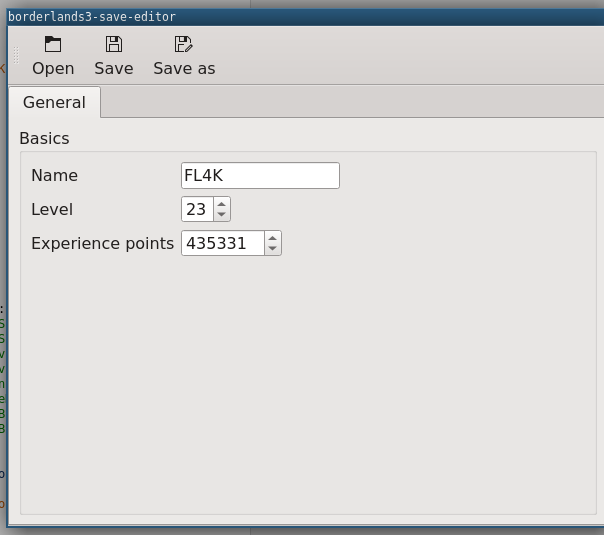
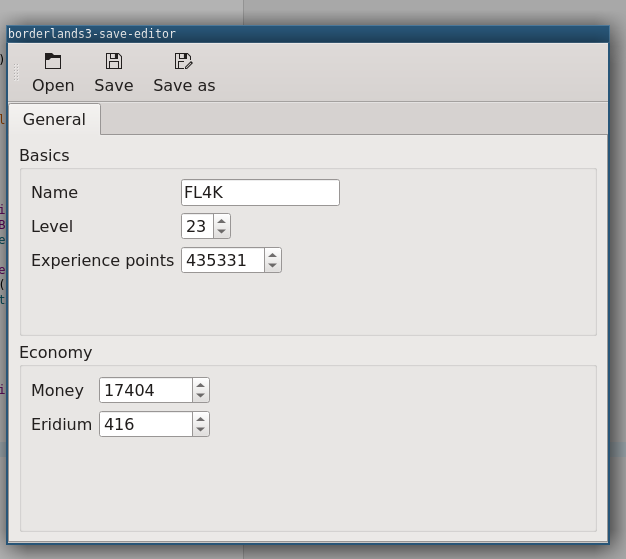
add money box

Changed region(s): [[0.0, 0.0, 1.0, 1.0]]

diff --git a/Savegame.cpp b/Savegame.cpp
@@ -1,7 +1,5 @@
 #include "Savegame.h"
 
-#include "Constants.h"
-
 #include "OakSave.pb.h"
 
 #include <QFile>
@@ -154,6 +152,8 @@ bool Savegame::load(const QString &filePath)
     emit nameChanged(characterName());
     emit xpChanged(xp());
     emit levelChanged(level());
+    emit moneyChanged(money());
+    emit eridiumChanged(eridium());
     return true;
 }
 
@@ -217,4 +217,69 @@ void Savegame::setLevel(const int newLevel)
         m_character->set_experience_points(requiredXp);
         emit xpChanged(requiredXp);
     }
+}
+
+int Savegame::money() const
+{
+    return currencyAmount(Constants::Currency::Money);
+}
+
+void Savegame::setMoney(const int amount)
+{
+    if (amount == money()) {
+        return;
+    }
+
+    setCurrency(Constants::Currency::Money, amount);
+    emit moneyChanged(amount);
+}
+
+int Savegame::eridium() const
+{
+    return currencyAmount(Constants::Currency::Eridium);
+}
+
+void Savegame::setEridium(const int amount)
+{
+    if (amount == eridium()) {
+        return;
+    }
+
+    setCurrency(Constants::Currency::Eridium, amount);
+    emit eridiumChanged(amount);
+}
+
+int Savegame::currencyAmount(const Constants::Currency currency) const
+{
+    for (const OakSave::InventoryCategorySaveData &item : m_character->inventory_category_list()) {
+        if (Constants::currencyByHash(item.base_category_definition_hash()) != currency) {
+            continue;
+        }
+        return item.quantity();
+    }
+    qWarning() << "Failed to find category" << currency;
+
+    return 0;
+
+}
+
+void Savegame::setCurrency(const Constants::Currency currency, const int amount)
+{
+    for (OakSave::InventoryCategorySaveData &item : *m_character->mutable_inventory_category_list()) {
+        if (Constants::currencyByHash(item.base_category_definition_hash()) != currency) {
+            continue;
+        }
+        item.set_quantity(amount);
+    }
+
+    qDebug() << "Failed to find category, adding new";
+    int hash = Constants::hashByCurrency(currency);
+    if (hash == -1) {
+        qWarning() << "Failed to find hash for" << currency;
+        return;
+    }
+    OakSave::InventoryCategorySaveData newItem;
+    newItem.set_base_category_definition_hash(hash);
+    newItem.set_quantity(amount);
+    m_character->mutable_inventory_category_list()->Add(std::move(newItem));
 }

diff --git a/generaltab.cpp b/generaltab.cpp
@@ -14,6 +14,7 @@ GeneralTab::GeneralTab(Savegame *savegame, QWidget *parent) :
 {
     setLayout(new QVBoxLayout);
 
+    //////////////////////////
     // Basic properties
     QGroupBox *basicsBox = new QGroupBox(tr("Basics"));
     QFormLayout *basicsLayout = new QFormLayout;
@@ -39,8 +40,29 @@ GeneralTab::GeneralTab(Savegame *savegame, QWidget *parent) :
     connect(savegame, &Savegame::xpChanged, m_xpEdit, &QSpinBox::setValue);
 
     connect(m_nameEdit, &QLineEdit::textEdited, savegame, &Savegame::setCharacterName);
-//    connect(m_levelEdit, &QSpinBox::editingFinished, savegame, [=]() { savegame->setLevel(m_levelEdit->value()); });
-//    connect(m_xpEdit, &QSpinBox::editingFinished, savegame, [=]() { savegame->setXp(m_xpEdit->value()); });
     connect(m_levelEdit, SIGNAL(valueChanged(int)), savegame, SLOT(setLevel(int))); // old style connect because fuck qOverload
     connect(m_xpEdit, SIGNAL(valueChanged(int)), savegame, SLOT(setXp(int))); // old style connect because fuck qOverload
+
+    //////////////////////////
+    // Economy
+    QGroupBox *economyBox = new QGroupBox(tr("Economy"));
+    QFormLayout *economyLayout = new QFormLayout;
+    economyLayout->setFieldGrowthPolicy(QFormLayout::FieldsStayAtSizeHint);
+    economyBox->setLayout(economyLayout);
+
+    m_moneyEditor = new QSpinBox;
+    m_moneyEditor->setRange(0, 99999999);
+    economyLayout->addRow(tr("Money"), m_moneyEditor);
+
+    m_eridiumEditor = new QSpinBox;
+    m_eridiumEditor->setRange(0, 99999999);
+    economyLayout->addRow(tr("Eridium"), m_eridiumEditor);
+
+    layout()->addWidget(economyBox);
+
+
+    connect(savegame, &Savegame::moneyChanged, m_moneyEditor, &QSpinBox::setValue);
+    connect(savegame, &Savegame::eridiumChanged, m_eridiumEditor, &QSpinBox::setValue);
+    connect(m_moneyEditor, SIGNAL(valueChanged(int)), savegame, SLOT(setMoney(int))); // old style connect because fuck qOverload
+    connect(m_eridiumEditor, SIGNAL(valueChanged(int)), savegame, SLOT(setEridium(int))); // old style connect because fuck qOverload
 }

diff --git a/Constants.cpp b/Constants.cpp
@@ -3,6 +3,11 @@
 #include <unordered_map>
 #include <string>
 
+const std::unordered_map<Constants::Currency, int> Constants::currencyHashes = {
+    { Constants::Currency::Money, 618814354 },
+    { Constants::Currency::Eridium, 3679636065 },
+};
+
 const QList<int> Constants::requiredXp = {
     0,          // lvl 1
     358,        // lvl 2
@@ -86,11 +91,11 @@ const QList<int> Constants::requiredXp = {
     12787955,    // lvl 80
 };
 
-template<typename T>
-static std::unordered_map<T, std::string> reverseMapping(const std::unordered_map<std::string, T> &mapping)
+template<typename T, typename V>
+static std::unordered_map<T, V> reverseMapping(const std::unordered_map<V, T> &mapping)
 {
-    std::unordered_map<T, std::string> ret;
-    for (const std::pair<const std::string, T> &entry : mapping) {
+    std::unordered_map<T, V> ret;
+    for (const std::pair<const V, T> &entry : mapping) {
         ret[entry.second] = entry.first;
     }
 
@@ -187,4 +192,25 @@ Constants::Slot Constants::slotFromObjectName(const std::string &objectName)
 std::string Constants::objectNameFromSlot(const Constants::Slot slot)
 {
     return lookupString(slot, reverseMapping(slotNames));
+}
+
+Constants::Currency Constants::currencyByHash(const int hash)
+{
+    static const std::unordered_map<int, Currency> reverse = reverseMapping(currencyHashes);
+    std::unordered_map<int, Currency>::const_iterator it = reverse.find(hash);
+    if (it == reverse.end()) {
+        return Currency::Invalid;
+    }
+
+    return it->second;
+}
+
+int Constants::hashByCurrency(const Constants::Currency currency)
+{
+    std::unordered_map<Currency, int>::const_iterator it = currencyHashes.find(currency);
+    if (it == currencyHashes.end()) {
+        return -1;
+    }
+    return it->second;
+
 }

diff --git a/Savegame.h b/Savegame.h
@@ -1,6 +1,8 @@
 #ifndef SAVEGAME_H
 #define SAVEGAME_H
 
+#include "Constants.h"
+
 #include <memory>
 #include <QString>
 #include <QVector>
@@ -58,13 +60,23 @@ public slots:
     int level() const;
     void setLevel(const int newLevel);
 
+    int money() const;
+    void setMoney(const int amount);
+
+    int eridium() const;
+    void setEridium(const int amount);
+
 signals:
     void nameChanged(const QString &newName);
     void xpChanged(const int xp);
     void levelChanged(const int level);
+    void moneyChanged(const int amount);
+    void eridiumChanged(const int amount);
 
 
 private:
+    int currencyAmount(const Constants::Currency currenct) const;
+    void setCurrency(const Constants::Currency currency, const int amount);
     std::unique_ptr<OakSave::Character> m_character;
 };
 

diff --git a/Constants.h b/Constants.h
@@ -57,6 +57,16 @@ public:
     static Slot slotFromObjectName(const std::string &objectName);
     static std::string objectNameFromSlot(const Slot slot);
 
+    enum class Currency {
+        Invalid = -1,
+        Money,
+        Eridium
+    };
+    Q_ENUM(Currency)
+    static const std::unordered_map<Currency, int> currencyHashes;
+    static Currency currencyByHash(const int hash);
+    static int hashByCurrency(const Currency currency);
+
     static constexpr int minLevel = 1;
     static constexpr int maxLevel = 57;
     static const QList<int> requiredXp;

diff --git a/generaltab.h b/generaltab.h
@@ -25,6 +25,9 @@ private:
     QSpinBox *m_levelEdit;
     QSpinBox *m_xpEdit;
     Savegame *m_savegame;
+
+    QSpinBox *m_moneyEditor;
+    QSpinBox *m_eridiumEditor;
 };
 
 #endif // GENERALTAB_H
